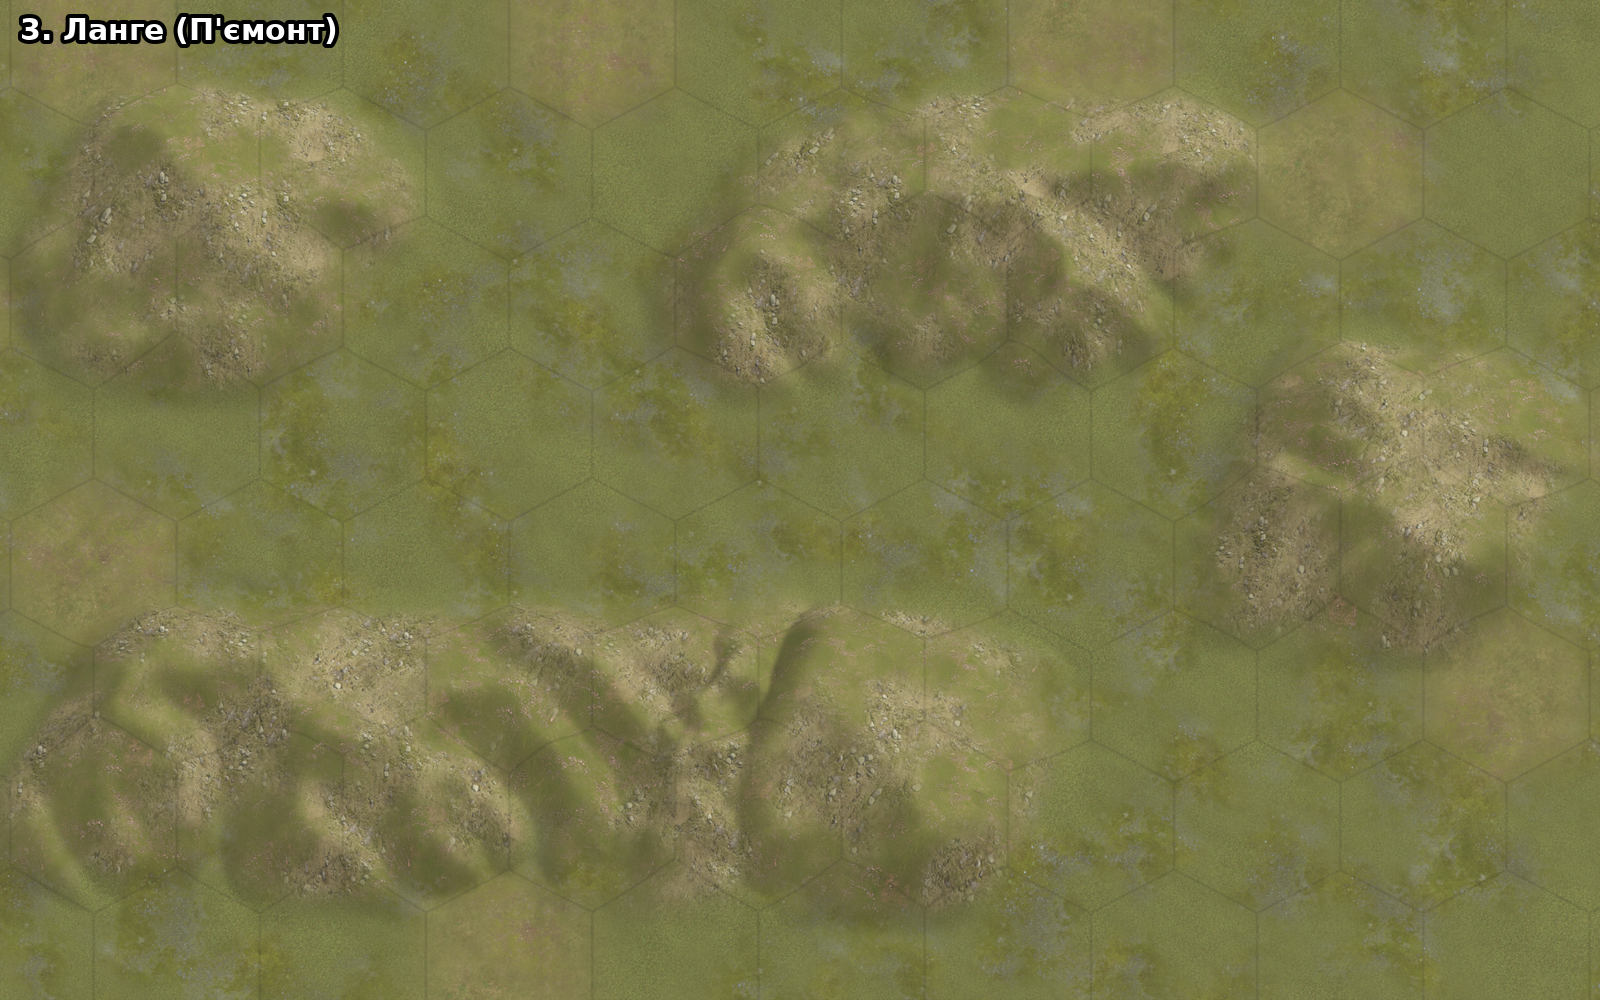
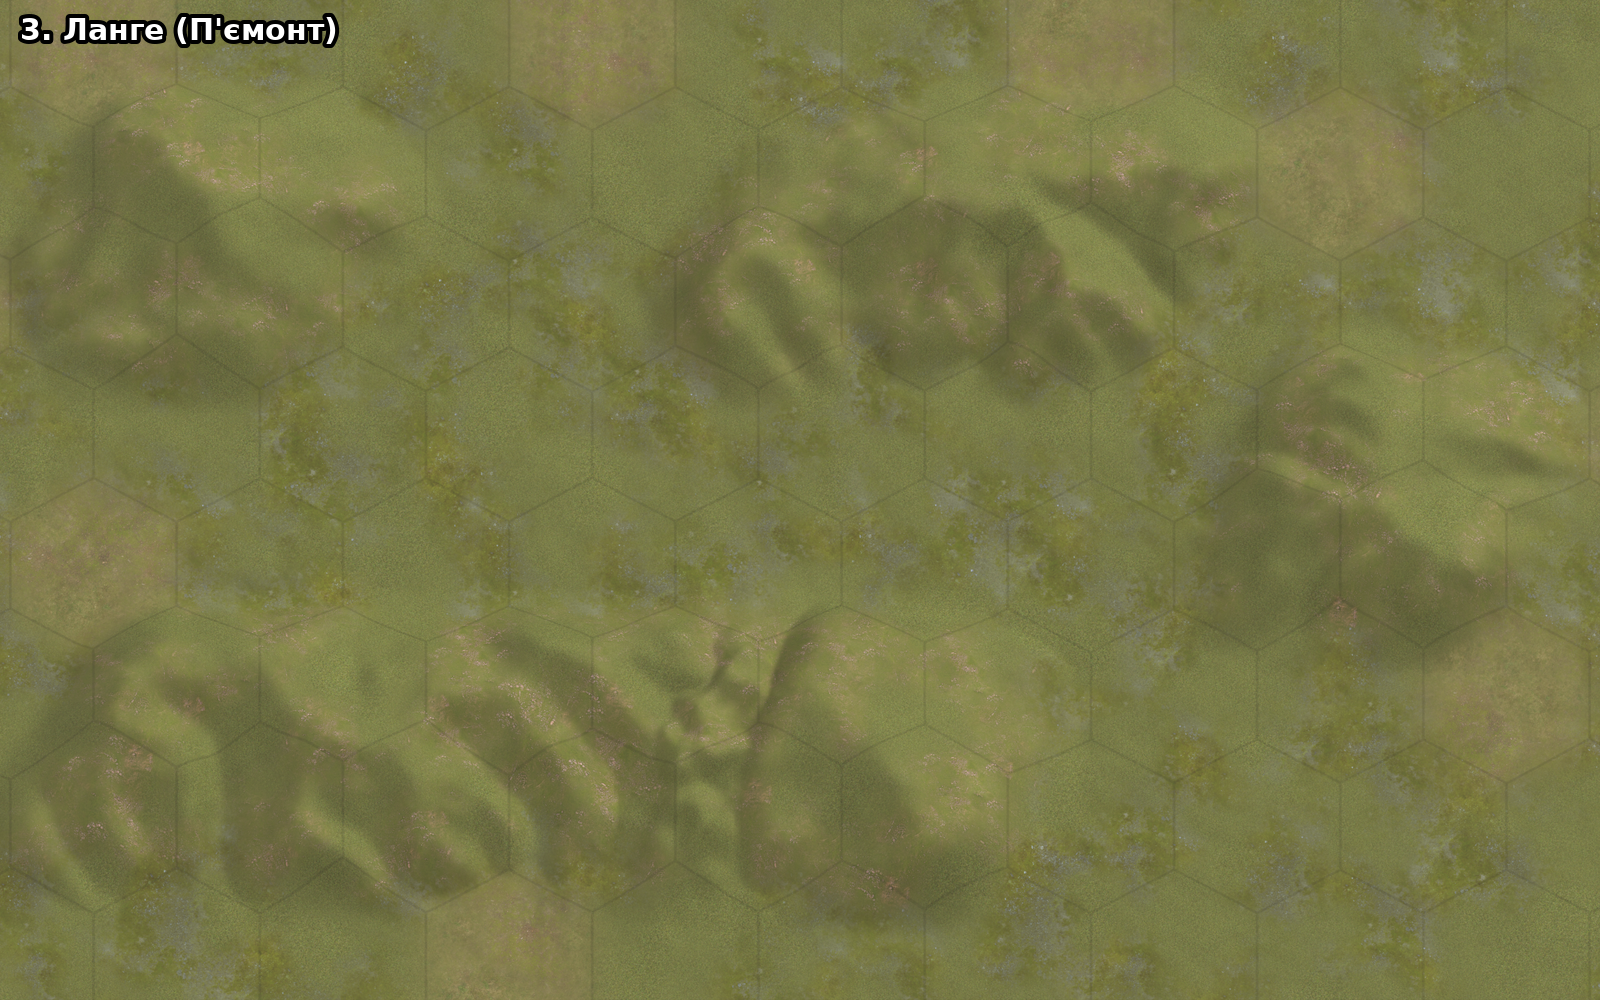
Hills: 20% lower, grassy slopes without light stony patches
Claude-Session: https://claude.ai/code/session_01DGzcrkN7G6Q8ozASAUm8BS

diff --git a/tools/references/make_hills_test.py b/tools/references/make_hills_test.py
@@ -8,7 +8,7 @@ used = []
 parts = []
 for (c0, r0, n) in [(1, 1, 2), (5, 1, 3), (1, 5, 4), (5, 5, 2), (8, 3, 2)]:
     hexes = group(c0, r0, n)
-    h, info = massif(g, hexes, area, used, hmax=4.0, km_per_hex=1.6, fade_r=0.95, fade_sig=0.55, smooth=2.0, base_pct=20)
+    h, info = massif(g, hexes, area, used, hmax=3.2, km_per_hex=1.6, fade_r=0.95, fade_sig=0.55, smooth=2.0, base_pct=20)
     parts.append((h, np.array([hw(c, r) for c, r in hexes])))
     print(area, c0, r0, n, info)
 save_field(stitch(g, parts), g, OUT)
